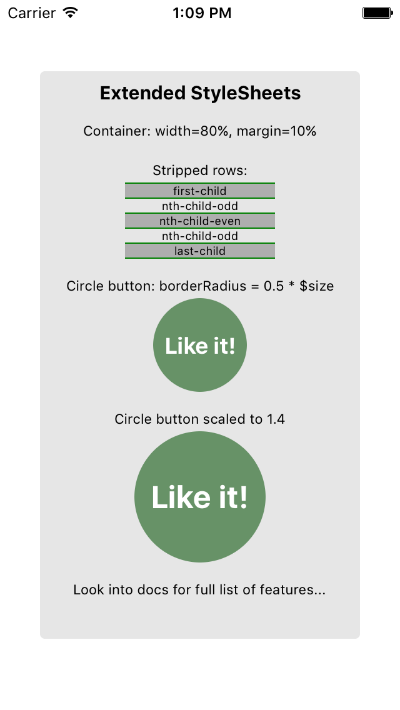
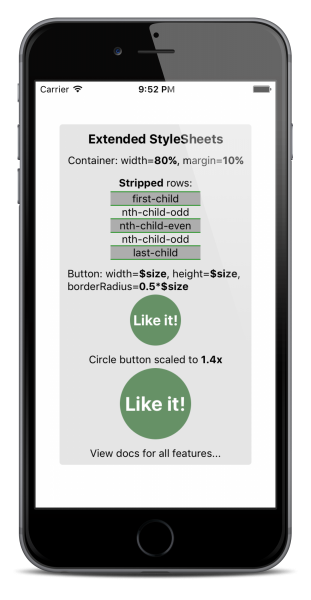
upd example

diff --git a/example/component.js b/example/component.js
@@ -16,9 +16,9 @@ export default class extends React.Component {
     return (
       <View style={styles.column}>
         <Text style={styles.header}>Extended StyleSheets</Text>
-        <Text style={styles.label}>Container: width=80%, margin=10%</Text>
+        <Text style={styles.label}>Container: width=<Text style={styles.bold}>80%</Text>, margin=<Text style={styles.bold}>10%</Text></Text>
 
-        <Text style={styles.label}>Stripped rows:</Text>
+        <Text style={styles.label}><Text style={styles.bold}>Stripped</Text> rows:</Text>
         {items.map((item, index) => {
           return (
             <View key={index} style={EStyleSheet.child(styles, 'row', index, items.length)}>
@@ -27,16 +27,18 @@ export default class extends React.Component {
           );
         })}
 
-        <Text style={styles.label}>Circle button: borderRadius = 0.5 * $size</Text>
+        <Text style={styles.label}>Button: width=<Text style={styles.bold}>$size</Text>,
+          height=<Text style={styles.bold}>$size</Text>,
+          borderRadius=<Text style={styles.bold}>0.5*$size</Text></Text>
         <TouchableHighlight style={btnStyles.button} underlayColor={btnStyles._button.$underlayColor}>
           <Text style={btnStyles.buttonText}>Like it!</Text>
         </TouchableHighlight>
-        <Text style={styles.label}>Circle button scaled to 1.4</Text>
+        <Text style={styles.label}>Circle button scaled to <Text style={styles.bold}>1.4x</Text></Text>
         <TouchableHighlight style={btnStylesScaled.button} underlayColor={btnStylesScaled._button.$underlayColor}>
           <Text style={btnStylesScaled.buttonText}>Like it!</Text>
         </TouchableHighlight>
 
-        <Text style={styles.label}>Look into docs for full list of features...</Text>
+        <Text style={styles.label}>View docs for all features...</Text>
       </View>
     );
   }
@@ -58,10 +60,13 @@ const styles = EStyleSheet.create({
     fontWeight: 'bold',
     color: 'black',
   },
+  bold: {
+    fontWeight: 'bold',
+  },
   label: {
-    fontSize: '0.7rem',
+    fontSize: '0.8rem',
     color: '$textColor',
-    marginTop: 15,
+    marginTop: 10,
     marginBottom: 3,
   },
   row: {
@@ -77,14 +82,14 @@ const styles = EStyleSheet.create({
     borderBottomWidth: 1 // render bottom edge for last row
   },
   rowText: {
-    fontSize: '.6rem',
+    fontSize: '.8rem',
   }
 });
 
 const getButtonStyles = EStyleSheet.memoize(scale => {
   return EStyleSheet.create({
     $scale: scale,
-    $size: '5rem',
+    $size: '4rem',
     button: {
       width: '$size',
       height: '$size',
@@ -95,7 +100,7 @@ const getButtonStyles = EStyleSheet.memoize(scale => {
       $underlayColor: 'red',  // put underlayColor to variable, access via styles._button.$underlayColor
     },
     buttonText: {
-      fontSize: '1.2rem',
+      fontSize: '1.1rem',
       color: 'white',
       fontWeight: 'bold',
     },

diff --git a/example/app.js b/example/app.js
@@ -6,7 +6,7 @@ import theme from './theme';
 
 // define REM depending on screen width
 let {width} = Dimensions.get('window');
-const rem = width > 340 ? 16 : 15;
+const rem = width > 340 ? 18 : 17;
 
 // calc styles
 EStyleSheet.build({...theme, rem});
